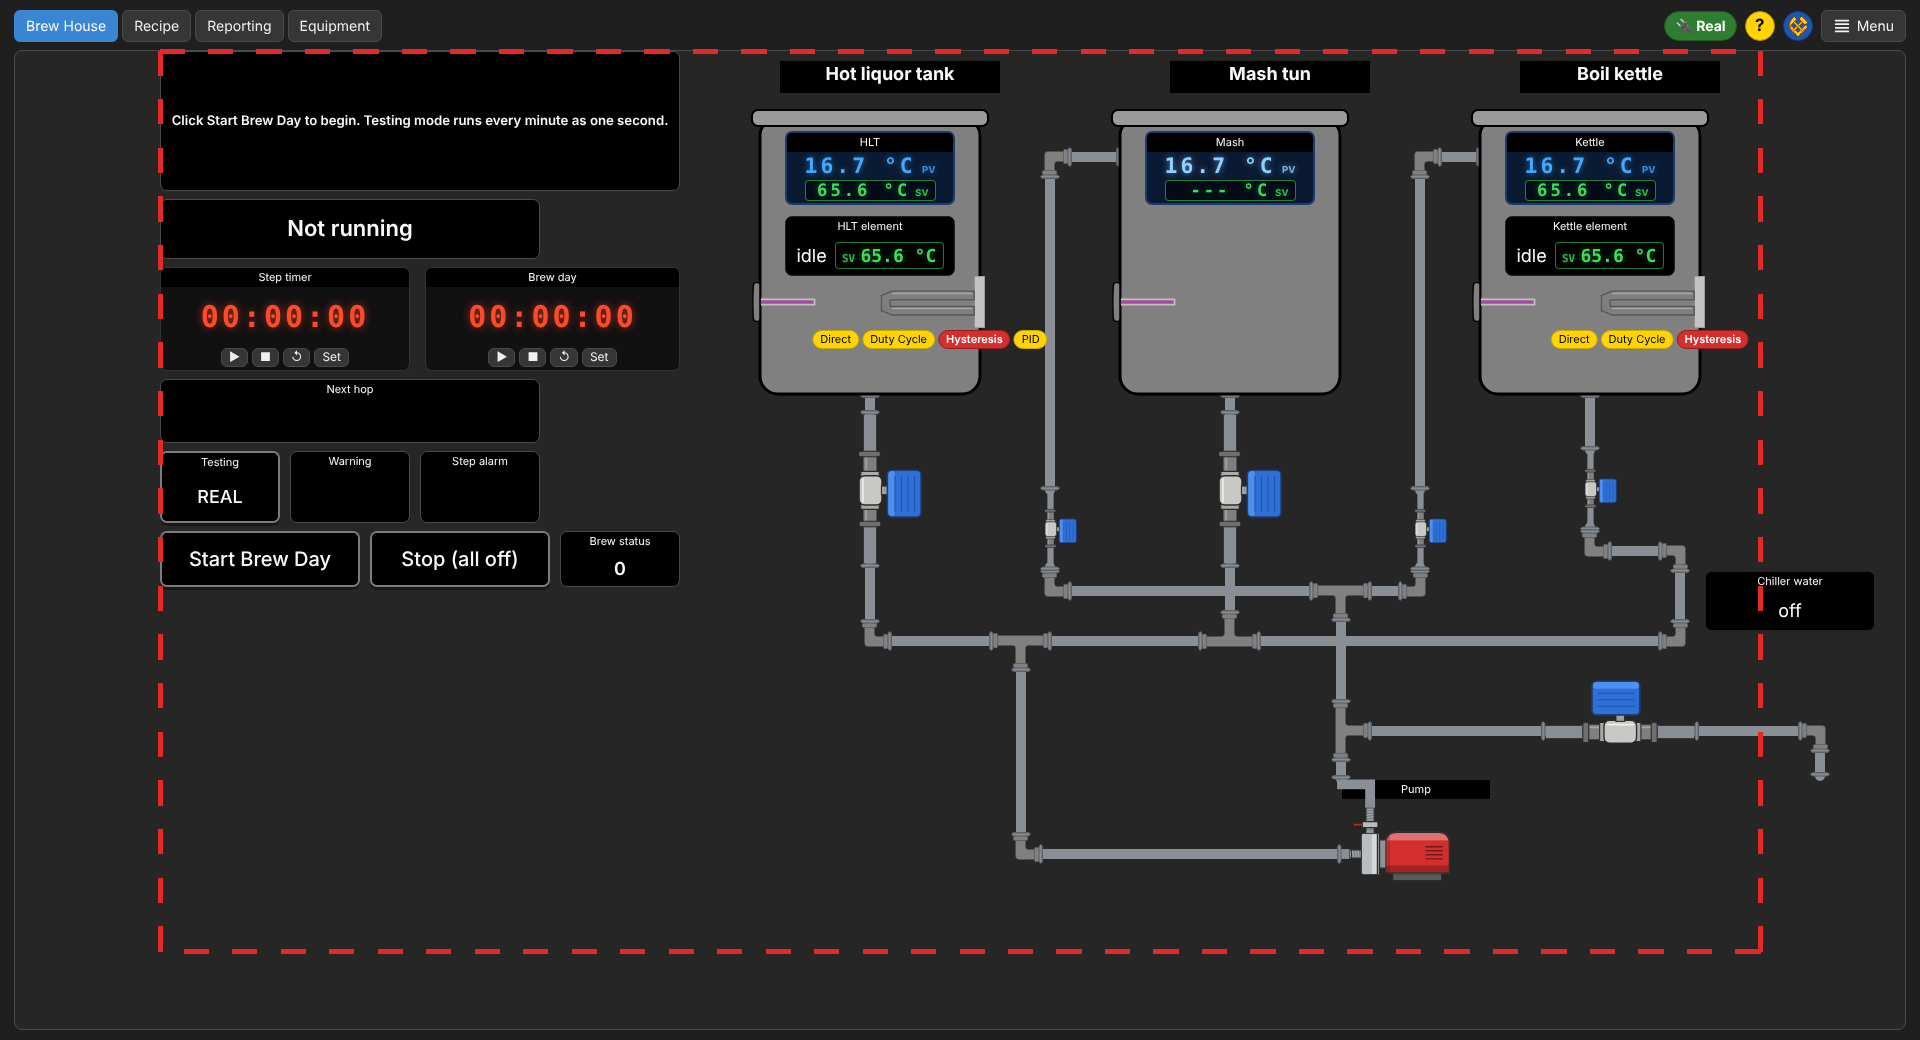
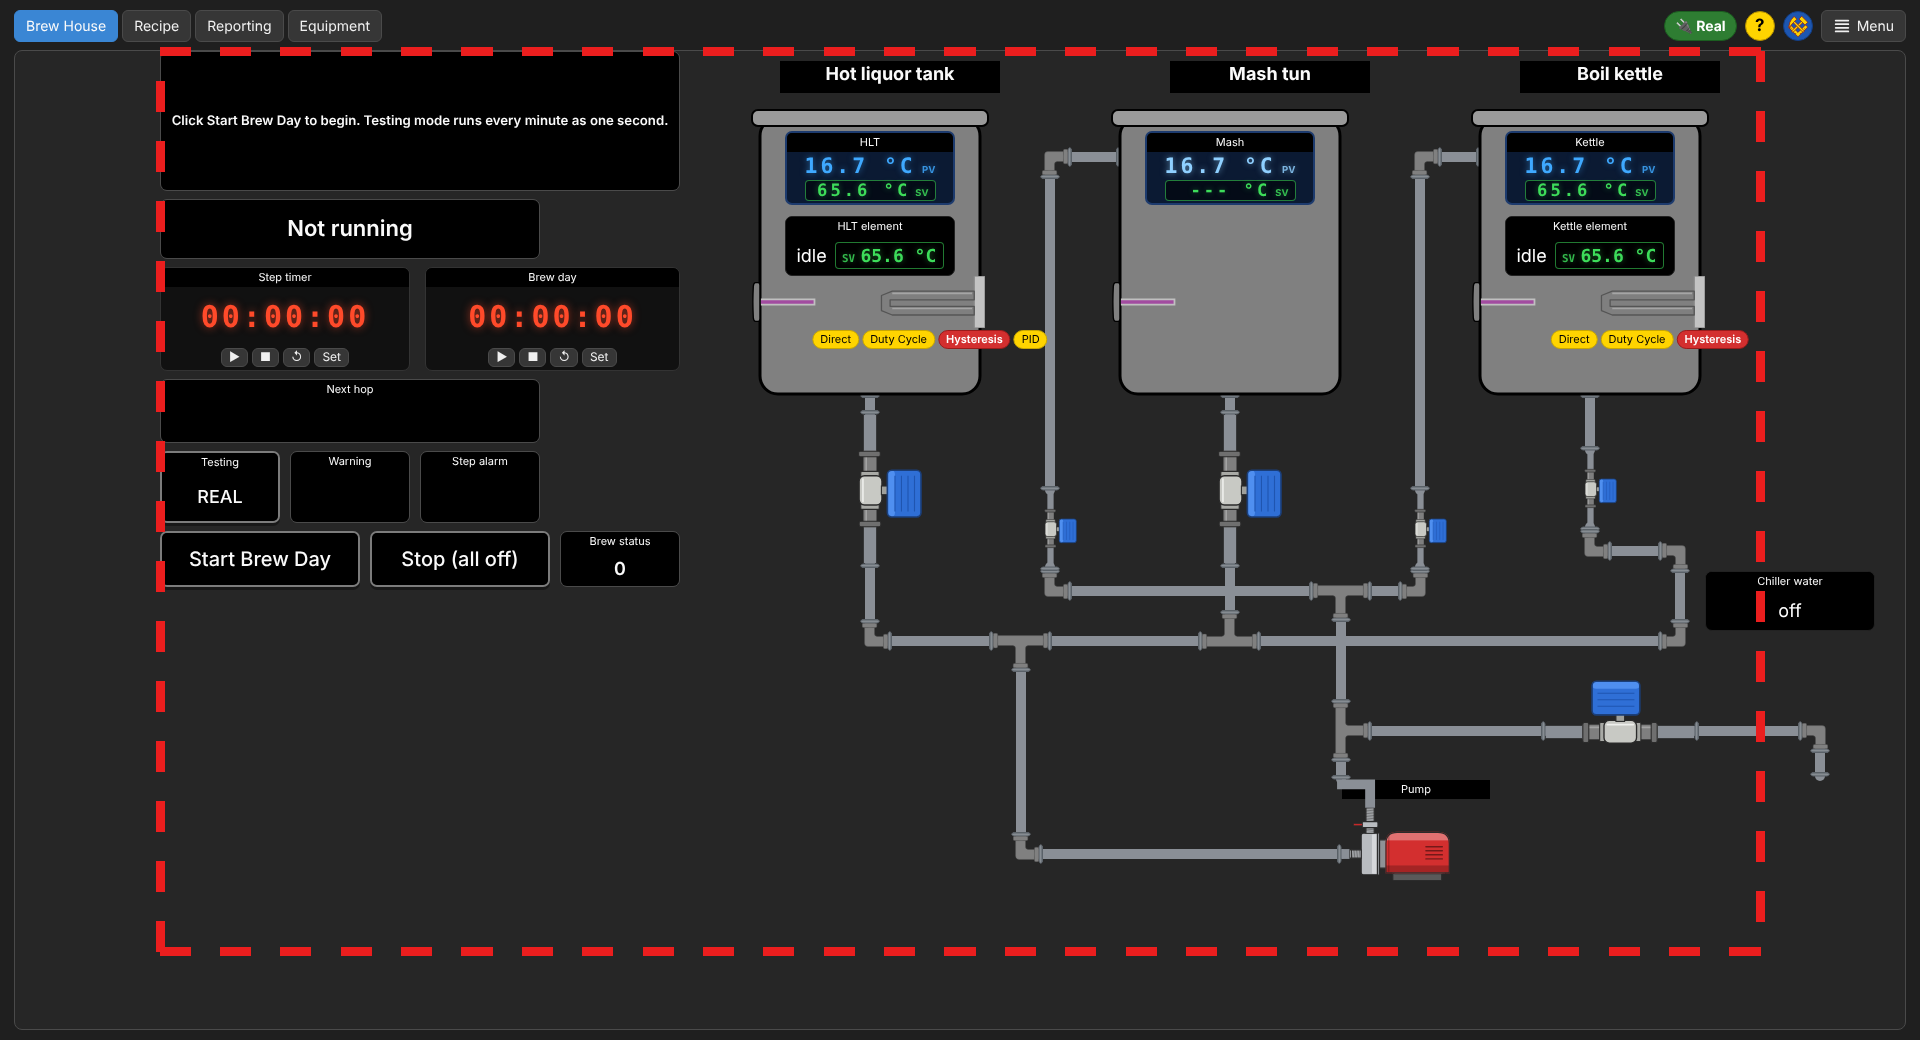
Rule 7.25: one exception for the Tab size screenshots, waiting for review; thicker red marks
Claude-Session: https://claude.ai/code/session_012LFz6eyvnYjfX4K3mwbLg1

diff --git a/docs/Skynet_Rules.md b/docs/Skynet_Rules.md
@@ -3676,6 +3676,12 @@ Both programs: the BruControl Import's Build page shows it too.
 - **Any Help picture taken from a PNG or a PDF is redrawn** (OakBarn Brewery, 2026-11-15: "Good rule on drawing any pix from a Png
   or pdf"), never cut out and shipped as it is. A picture cut from a markup PDF is only as sharp as it was pasted into the PDF
   (most are 96 dots per inch). The PNG may stay next to the SVG (Rule #1, Never Take Away); the SVG is what shows.
+- **One exception, waiting for OakBarn Brewery's review** (2026-11-19, Panel Updates entry 15, taken as Claude's recommendation while he
+  was away): the two **Tab size pictures** (`help_pictures/Tab_1600x900_on_1920x1040_Screen.png` and `Tab_1920x1040_on_1920x1040_Screen.png`,
+  in the Width and Height of a New Tab Hover Help) are real screenshots of the panel, as he asked ("add some graphics of a tab ...
+  highlighting the scroll bars"), so the words on the Tab are part of the picture. They show how a whole screen looks, not words to read;
+  the explanation is real text in the balloon (English and French), and the pictures add no words of their own (only red marks).
+  A whole-screen picture uses ⟪imgw:path⟫ in Hover Help, drawn as wide as the balloon (⟪img:⟫ stays at most 240 px).
 Skynet does this in the Background and needs no user input (Rule 11.13). Both programs: the BruControl Import makes no traced copies, so it already shows
 the pictures themselves (and the hand-made SVGs). Help 7.
 
